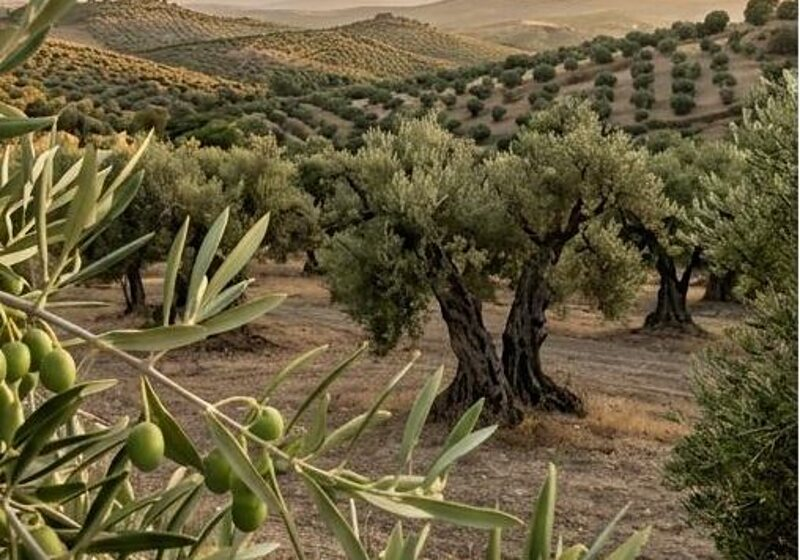
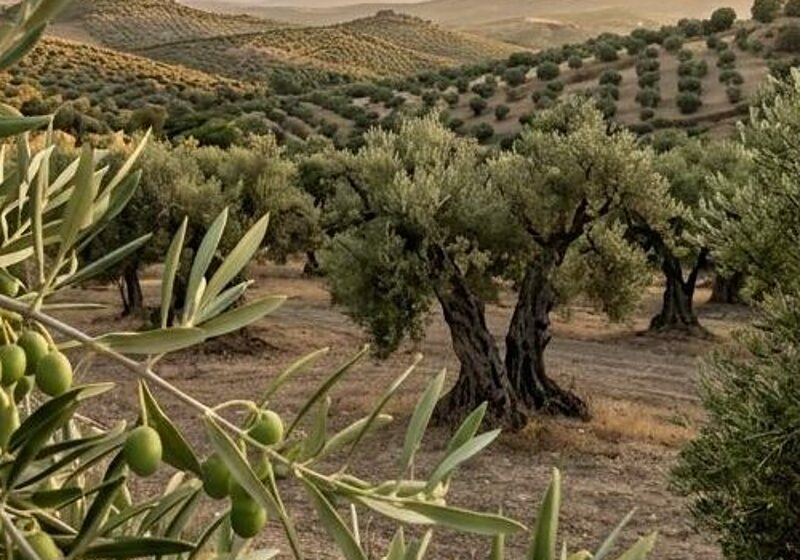
Show the whole bottle in the hero and trim white edges on mill photos
- The hero photo gains a soft hazy sky above the bottle, and the frame sits
  lower, so the bottle neck and cap clear the header at common desktop sizes
  and on phones.
- The two mill-visit photos are recropped a few pixels inside the source,
  removing the thin white borders.

Claude-Session: https://claude.ai/code/session_011qnGrh7daurogdNXWizLAR

diff --git a/assets/styles.css b/assets/styles.css
@@ -294,7 +294,7 @@ button{font:inherit; color:inherit}
 .hero{position:relative; overflow:hidden; background:#F3EEDF; margin-top:calc(var(--hdr) * -1); isolation:isolate}
 .hero-stage{position:relative; height:clamp(560px, 82vh, 780px)}
 .hero-stage > picture{display:contents}
-.hero-art{position:absolute; inset:0; width:100%; height:100%; object-fit:cover; object-position:72% 50%}
+.hero-art{position:absolute; inset:0; width:100%; height:100%; object-fit:cover; object-position:72% 56%}
 .hero-art [data-depth]{will-change:transform; transition:transform .6s var(--ease)}
 .hero-copy{position:absolute; inset:0; display:flex; align-items:center; padding-top:var(--hdr); z-index:2}
 .hero-copy::before{content:""; position:absolute; inset:0; z-index:-1; pointer-events:none;

diff --git a/index.html b/index.html
@@ -299,7 +299,7 @@ button{font:inherit; color:inherit}
 .hero{position:relative; overflow:hidden; background:#F3EEDF; margin-top:calc(var(--hdr) * -1); isolation:isolate}
 .hero-stage{position:relative; height:clamp(560px, 82vh, 780px)}
 .hero-stage > picture{display:contents}
-.hero-art{position:absolute; inset:0; width:100%; height:100%; object-fit:cover; object-position:72% 50%}
+.hero-art{position:absolute; inset:0; width:100%; height:100%; object-fit:cover; object-position:72% 56%}
 .hero-art [data-depth]{will-change:transform; transition:transform .6s var(--ease)}
 .hero-copy{position:absolute; inset:0; display:flex; align-items:center; padding-top:var(--hdr); z-index:2}
 .hero-copy::before{content:""; position:absolute; inset:0; z-index:-1; pointer-events:none;
